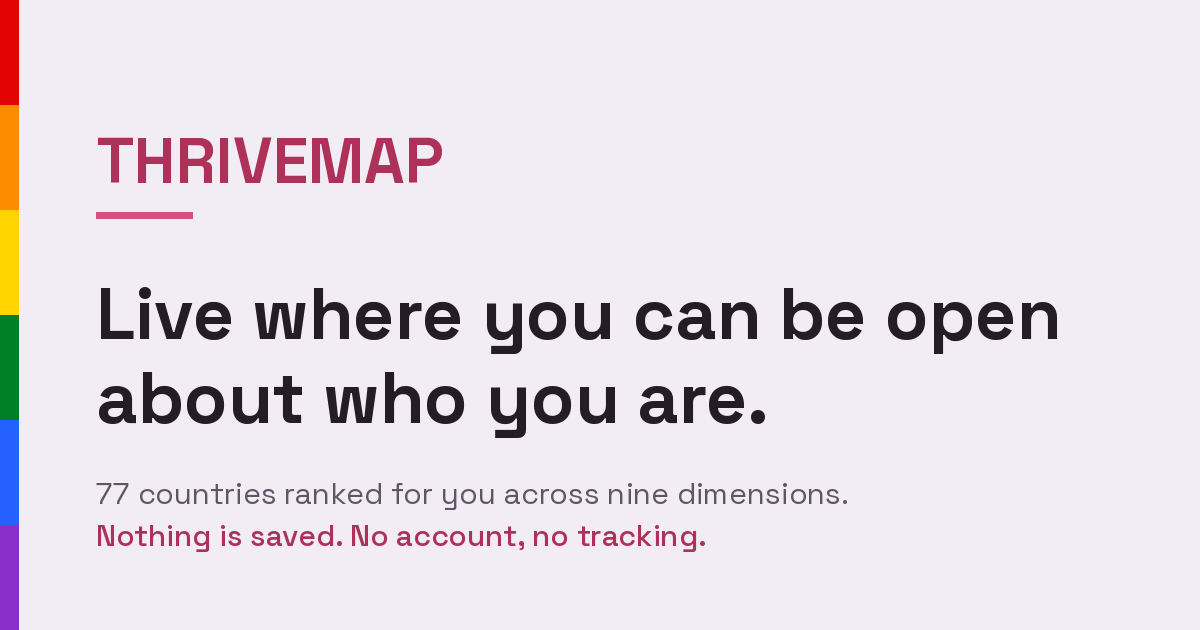
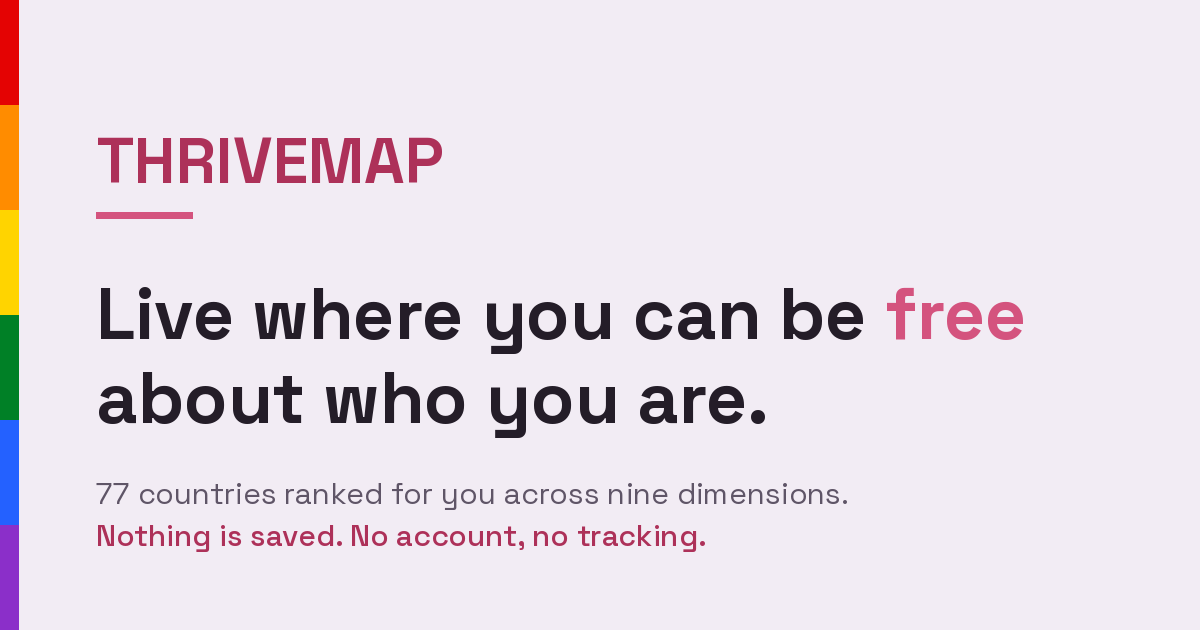
Refactor headline to include rotating words for accessibility and user enga[4D[K engagement.

Changed region(s): [[0.74, 0.4524, 0.8942, 0.573]]

diff --git a/src/components/ProfileSetup.jsx b/src/components/ProfileSetup.jsx
@@ -1,5 +1,35 @@
-import { useState } from 'react';
+import { useState, useEffect } from 'react';
 import { GENDER_OPTIONS, ORIENTATION_OPTIONS, ETHNICITY_OPTIONS } from '../data/countries';
+
+// "free" leads deliberately: it is the word rendered statically in the
+// index.html prerender, the og-image, and whenever reduced motion is requested,
+// so it is what crawlers and non-animating visitors actually see.
+const HEADLINE_WORDS = ['free', 'open', 'honest', 'relaxed', 'unguarded', 'loud', 'visible', 'respected'];
+
+/**
+ * Cycles one word inside the headline.
+ *
+ * The visible rotation is aria-hidden and paired with a visually hidden static
+ * sentence listing every word, so screen readers get one coherent sentence
+ * instead of a word that mutates under them. Keying the span on the word itself
+ * remounts it, which replays the entry animation.
+ */
+function RotatingWord({ words, intervalMs = 2200 }) {
+  const [i, setI] = useState(0);
+
+  useEffect(() => {
+    // Rotation is motion: hold on the first word when reduced motion is requested.
+    if (window.matchMedia?.('(prefers-reduced-motion: reduce)').matches) return;
+    const id = setInterval(() => setI(n => (n + 1) % words.length), intervalMs);
+    return () => clearInterval(id);
+  }, [words.length, intervalMs]);
+
+  return (
+    <span className="rotator">
+      <span key={words[i]} className="rot-word">{words[i]}</span>
+    </span>
+  );
+}
 
 function PersonCard({ person, index, onChange }) {
   const label = index === 0 ? 'Person 1' : 'Person 2';
@@ -96,7 +126,15 @@ export default function ProfileSetup({ persons, onNext }) {
   return (
     <div className="step-container">
       <div className="step-hero">
-        <h1 className="step-title">Live where you can be open about who you are.</h1>
+        <h1 className="step-title">
+          <span className="sr-only">
+            Live where you can be free, open, honest, relaxed, unguarded, loud,
+            visible and respected about who you are.
+          </span>
+          <span aria-hidden="true">
+            Live where you can be <RotatingWord words={HEADLINE_WORDS} /> about who you are.
+          </span>
+        </h1>
         <p className="step-subtitle">
           77 countries. Nine dimensions. Ranked for you. Nothing is saved: no account,
           no cookies, no tracking. Your answers never leave your browser.

diff --git a/index.html b/index.html
@@ -60,7 +60,7 @@
       <!-- Static fallback: visible to crawlers and while the app loads; replaced when React mounts. -->
       <div class="prerender" style="max-width:640px;margin:0 auto;padding:48px 24px;font-family:system-ui,'Segoe UI',Roboto,sans-serif;color:#241d28;background:#f2ecf4">
         <h1 style="color:#ad3159;text-transform:uppercase;letter-spacing:0.02em">ThriveMap</h1>
-        <p><strong>Live where you can be open about who you are.</strong></p>
+        <p><strong>Live where you can be free about who you are.</strong></p>
         <p>ThriveMap is a free, open tool for LGBTQ+ people and people of colour who are thinking about relocating, or who simply want to know where in the world they would be most safe, welcome, and able to thrive.</p>
         <p>Build a profile for one or two people, set your priorities across nine dimensions of livability, and see 77 countries ranked from best fit to worst, with per-dimension explanations and links to authoritative sources such as Equaldex, ILGA, TGEU, the WHO, the World Bank and the Global Peace Index.</p>
         <p>Nothing is saved. Your answers never leave your browser, and no data is stored or sent anywhere. No account needed.</p>

diff --git a/src/index.css b/src/index.css
@@ -71,6 +71,33 @@ a:hover { text-decoration: none; }
 .score-num, .mini-score-val, .top3-score, .rank-num, .pref-value,
 .country-rank, .badge { font-variant-numeric: tabular-nums; }
 
+/* Visually hidden, still read by screen readers and indexed by crawlers. */
+.sr-only {
+  position: absolute;
+  width: 1px;
+  height: 1px;
+  padding: 0;
+  margin: -1px;
+  overflow: hidden;
+  clip: rect(0 0 0 0);
+  white-space: nowrap;
+  border: 0;
+}
+
+/* Rotating headline word.
+   --accent only clears AA as large text (3.39:1 on --bg), which holds at the
+   40px and 30px headline sizes. Do not reuse .rotator below 24px. */
+.rotator { display: inline-block; color: var(--accent); }
+
+@media (prefers-reduced-motion: no-preference) {
+  .rot-word { display: inline-block; animation: wordIn 0.28s ease-out; }
+}
+
+@keyframes wordIn {
+  from { opacity: 0; transform: translateY(0.18em); }
+  to   { opacity: 1; transform: translateY(0); }
+}
+
 /* Focus: one visible treatment everywhere, no browser defaults. */
 :where(a, button, input, select, [tabindex]):focus-visible {
   outline: 2px solid var(--accent-deep);
